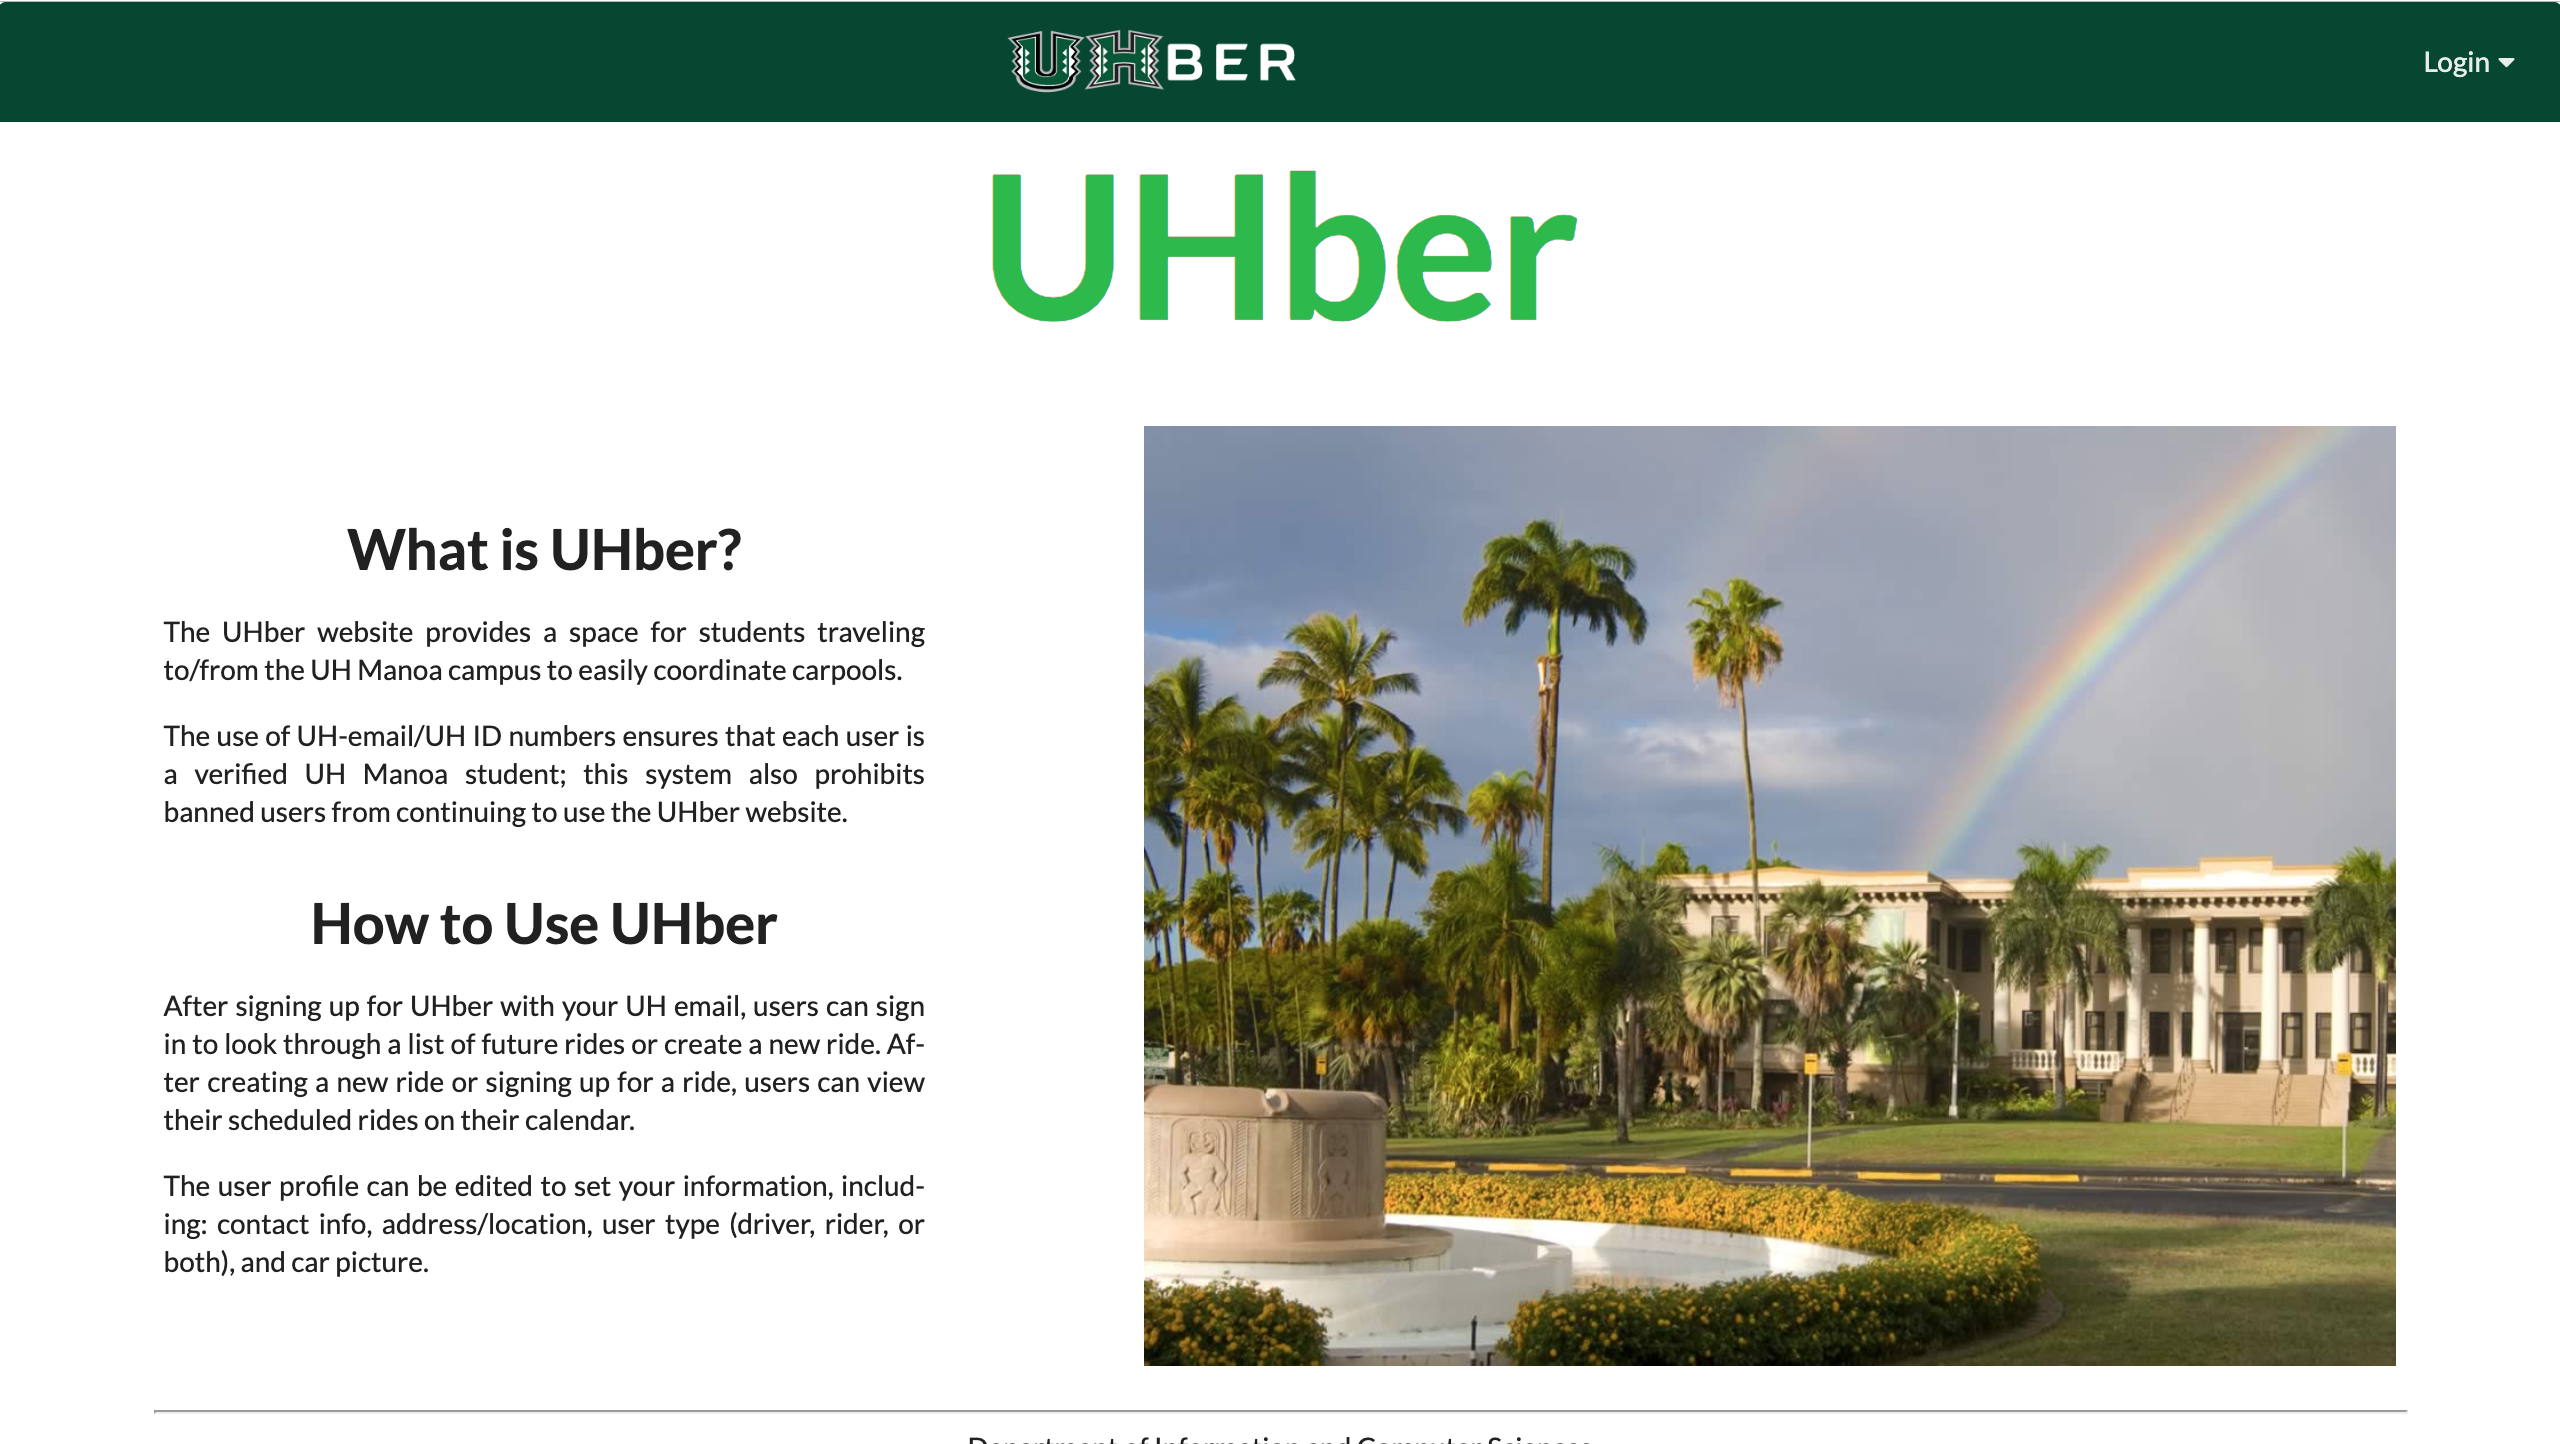
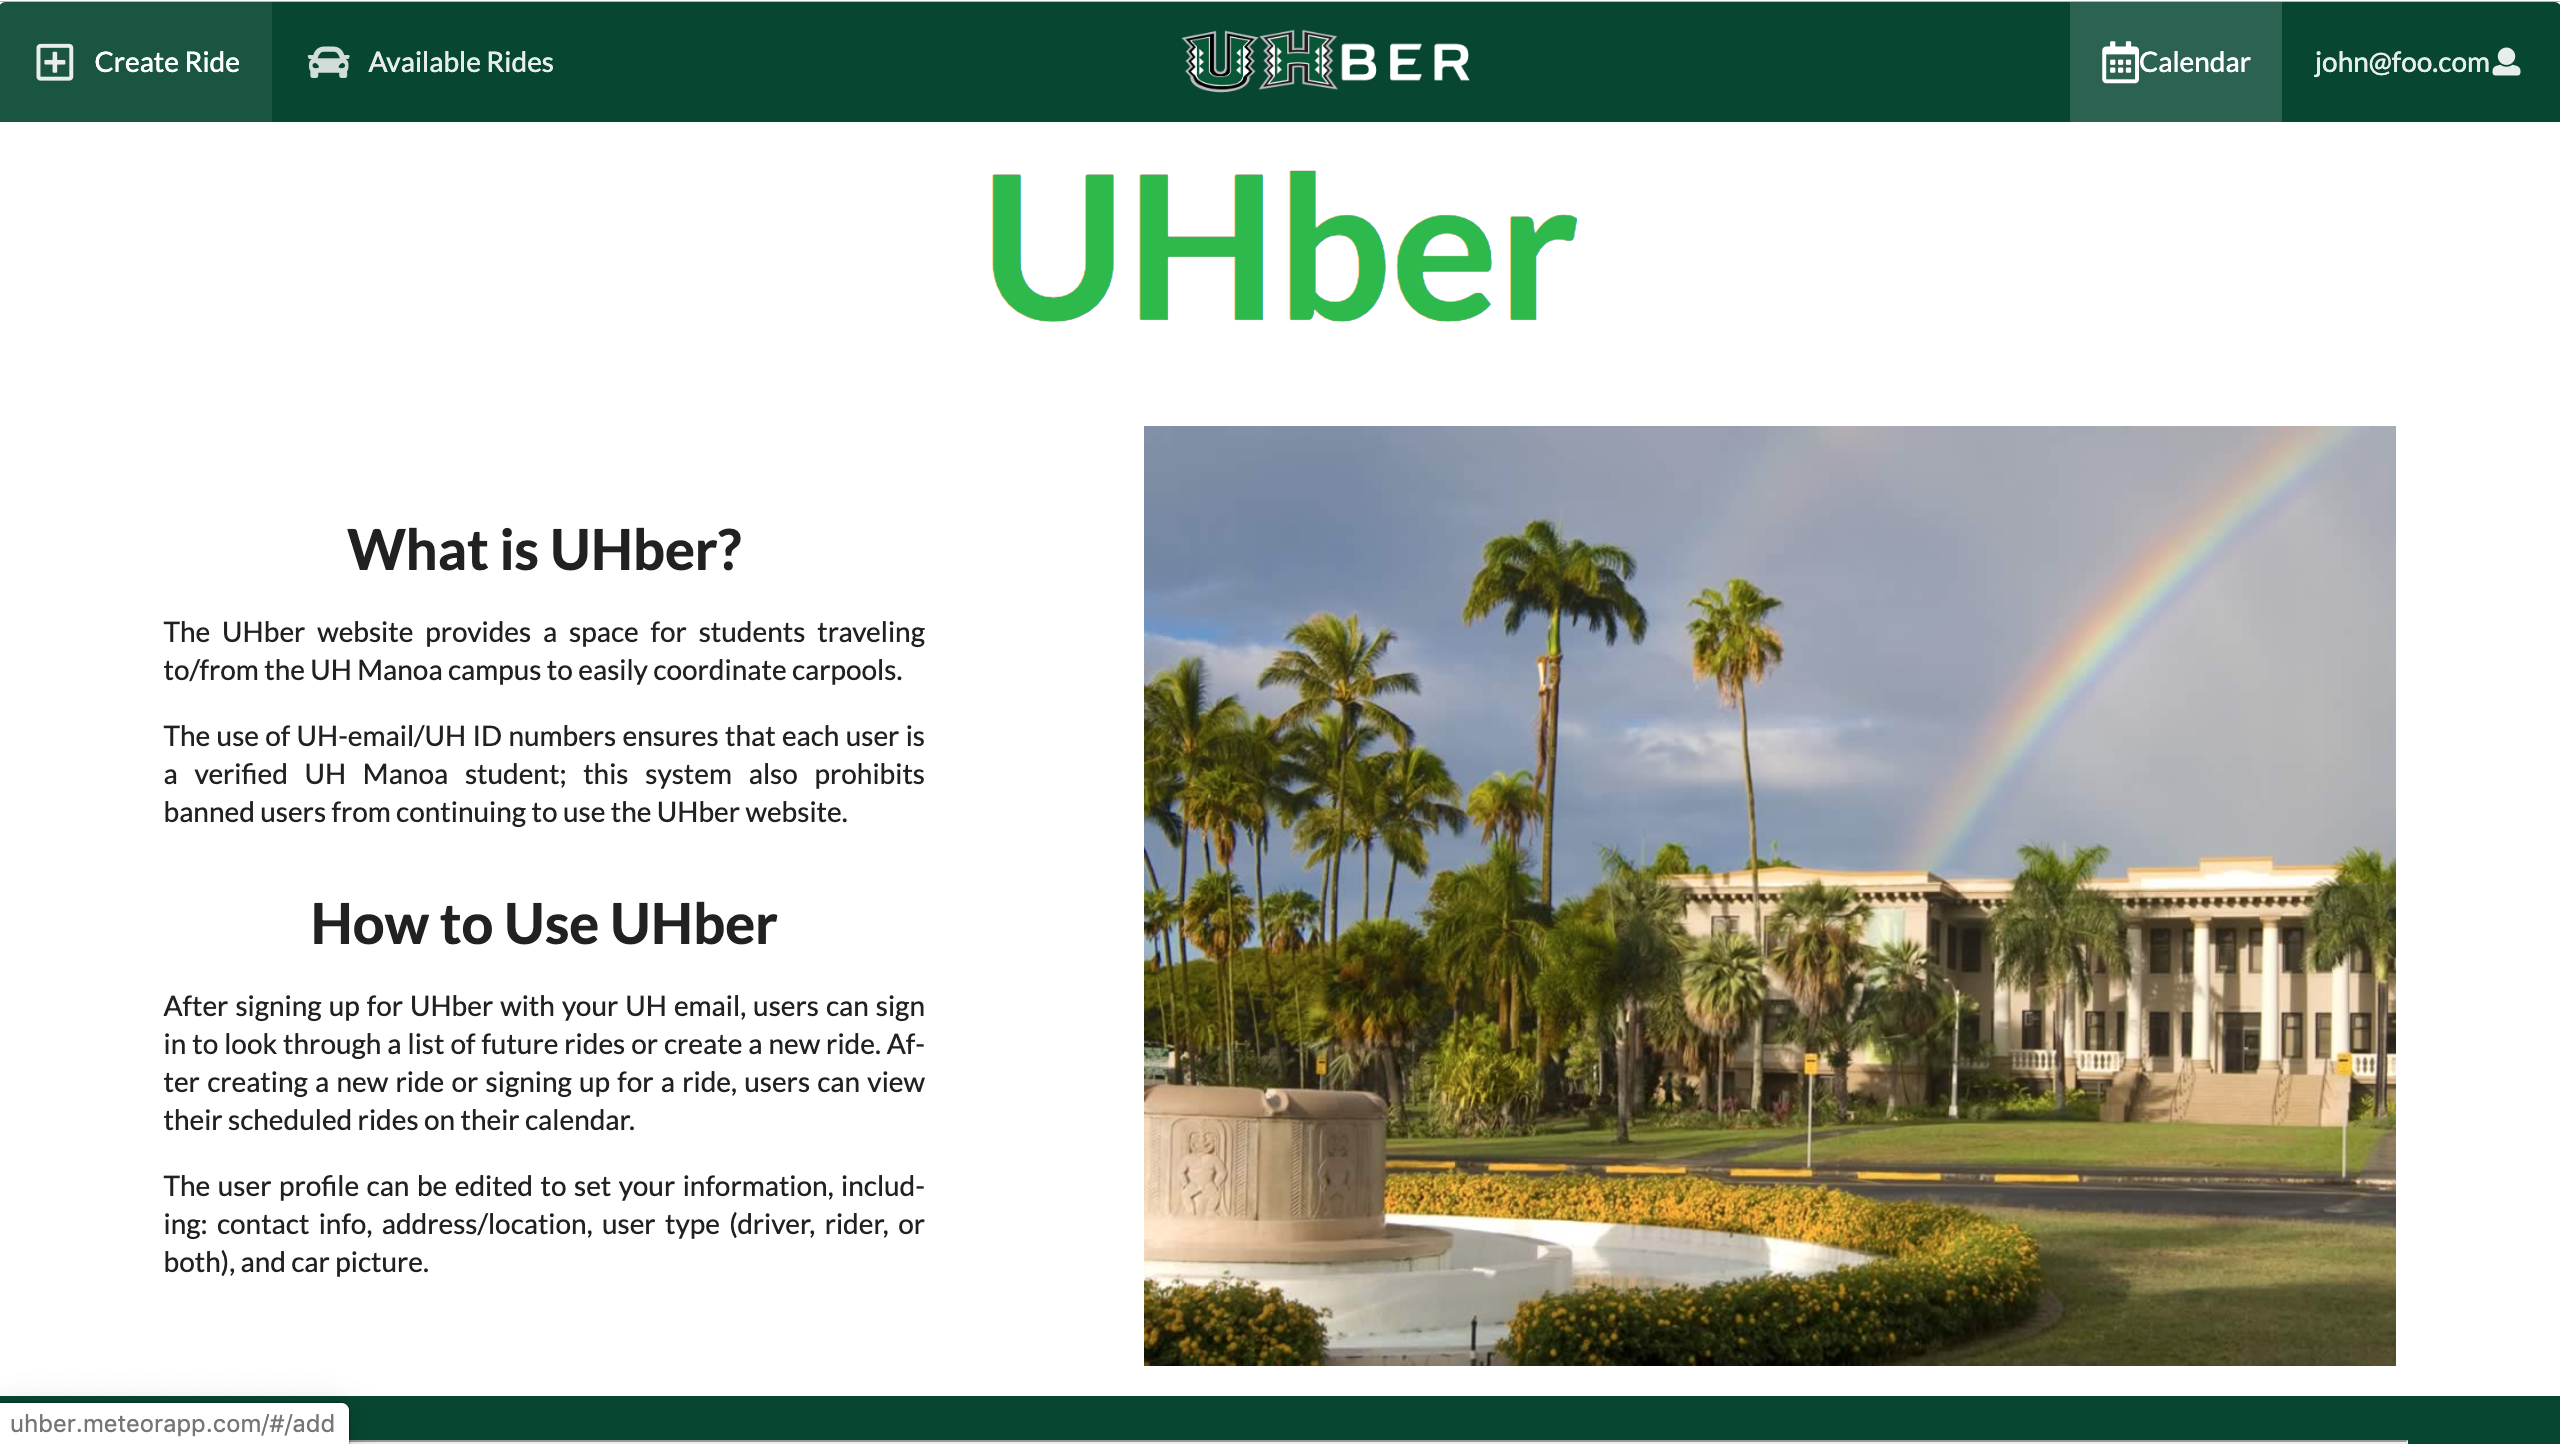
Updated the photos

diff --git a/index.md b/index.md
@@ -27,14 +27,14 @@ UHber will have several pages for the user to navigate through to ensure this ap
 ![](images/landingPage.png)
 This is the [landing page](http://uhber.meteorapp.com/#/) that users first see when they visit the site. 
 ### Sign In Page Mockup
-![](images/signInPageMockUp.png)
+![](images/signInPage.png)
 This is the basic [signin page](http://uhber.meteorapp.com/#/signin).
 ### Sign Up Page Mockup
-![](images/signUpMockUp.png)
+![](images/signUpPage.png)
 This is the [signup page](http://uhber.meteorapp.com/#/signup), we wanted to make the user input their names when they sign up just so their names would be on their profile until they decide to make their profile.
 ### User Landing Page Mockup
-![](images/userLandingPageMockUp.png)
-This is the [home page](http://uhber.meteorapp.com/#/) when the user logs in. Its the same as the regular landing page, but it provides the user with more options in the navbar.
+![](images/userLandingPage.png)
+This is the home page when the user logs in. Its the same as the regular landing page, but it provides the user with more options in the navbar.
 ### User Profile page Mockup
 ![](images/userProfilePageMockUp.png)
 This is the user's profile page. We might change it depending on what we want other users to see when they look at another users profile.
